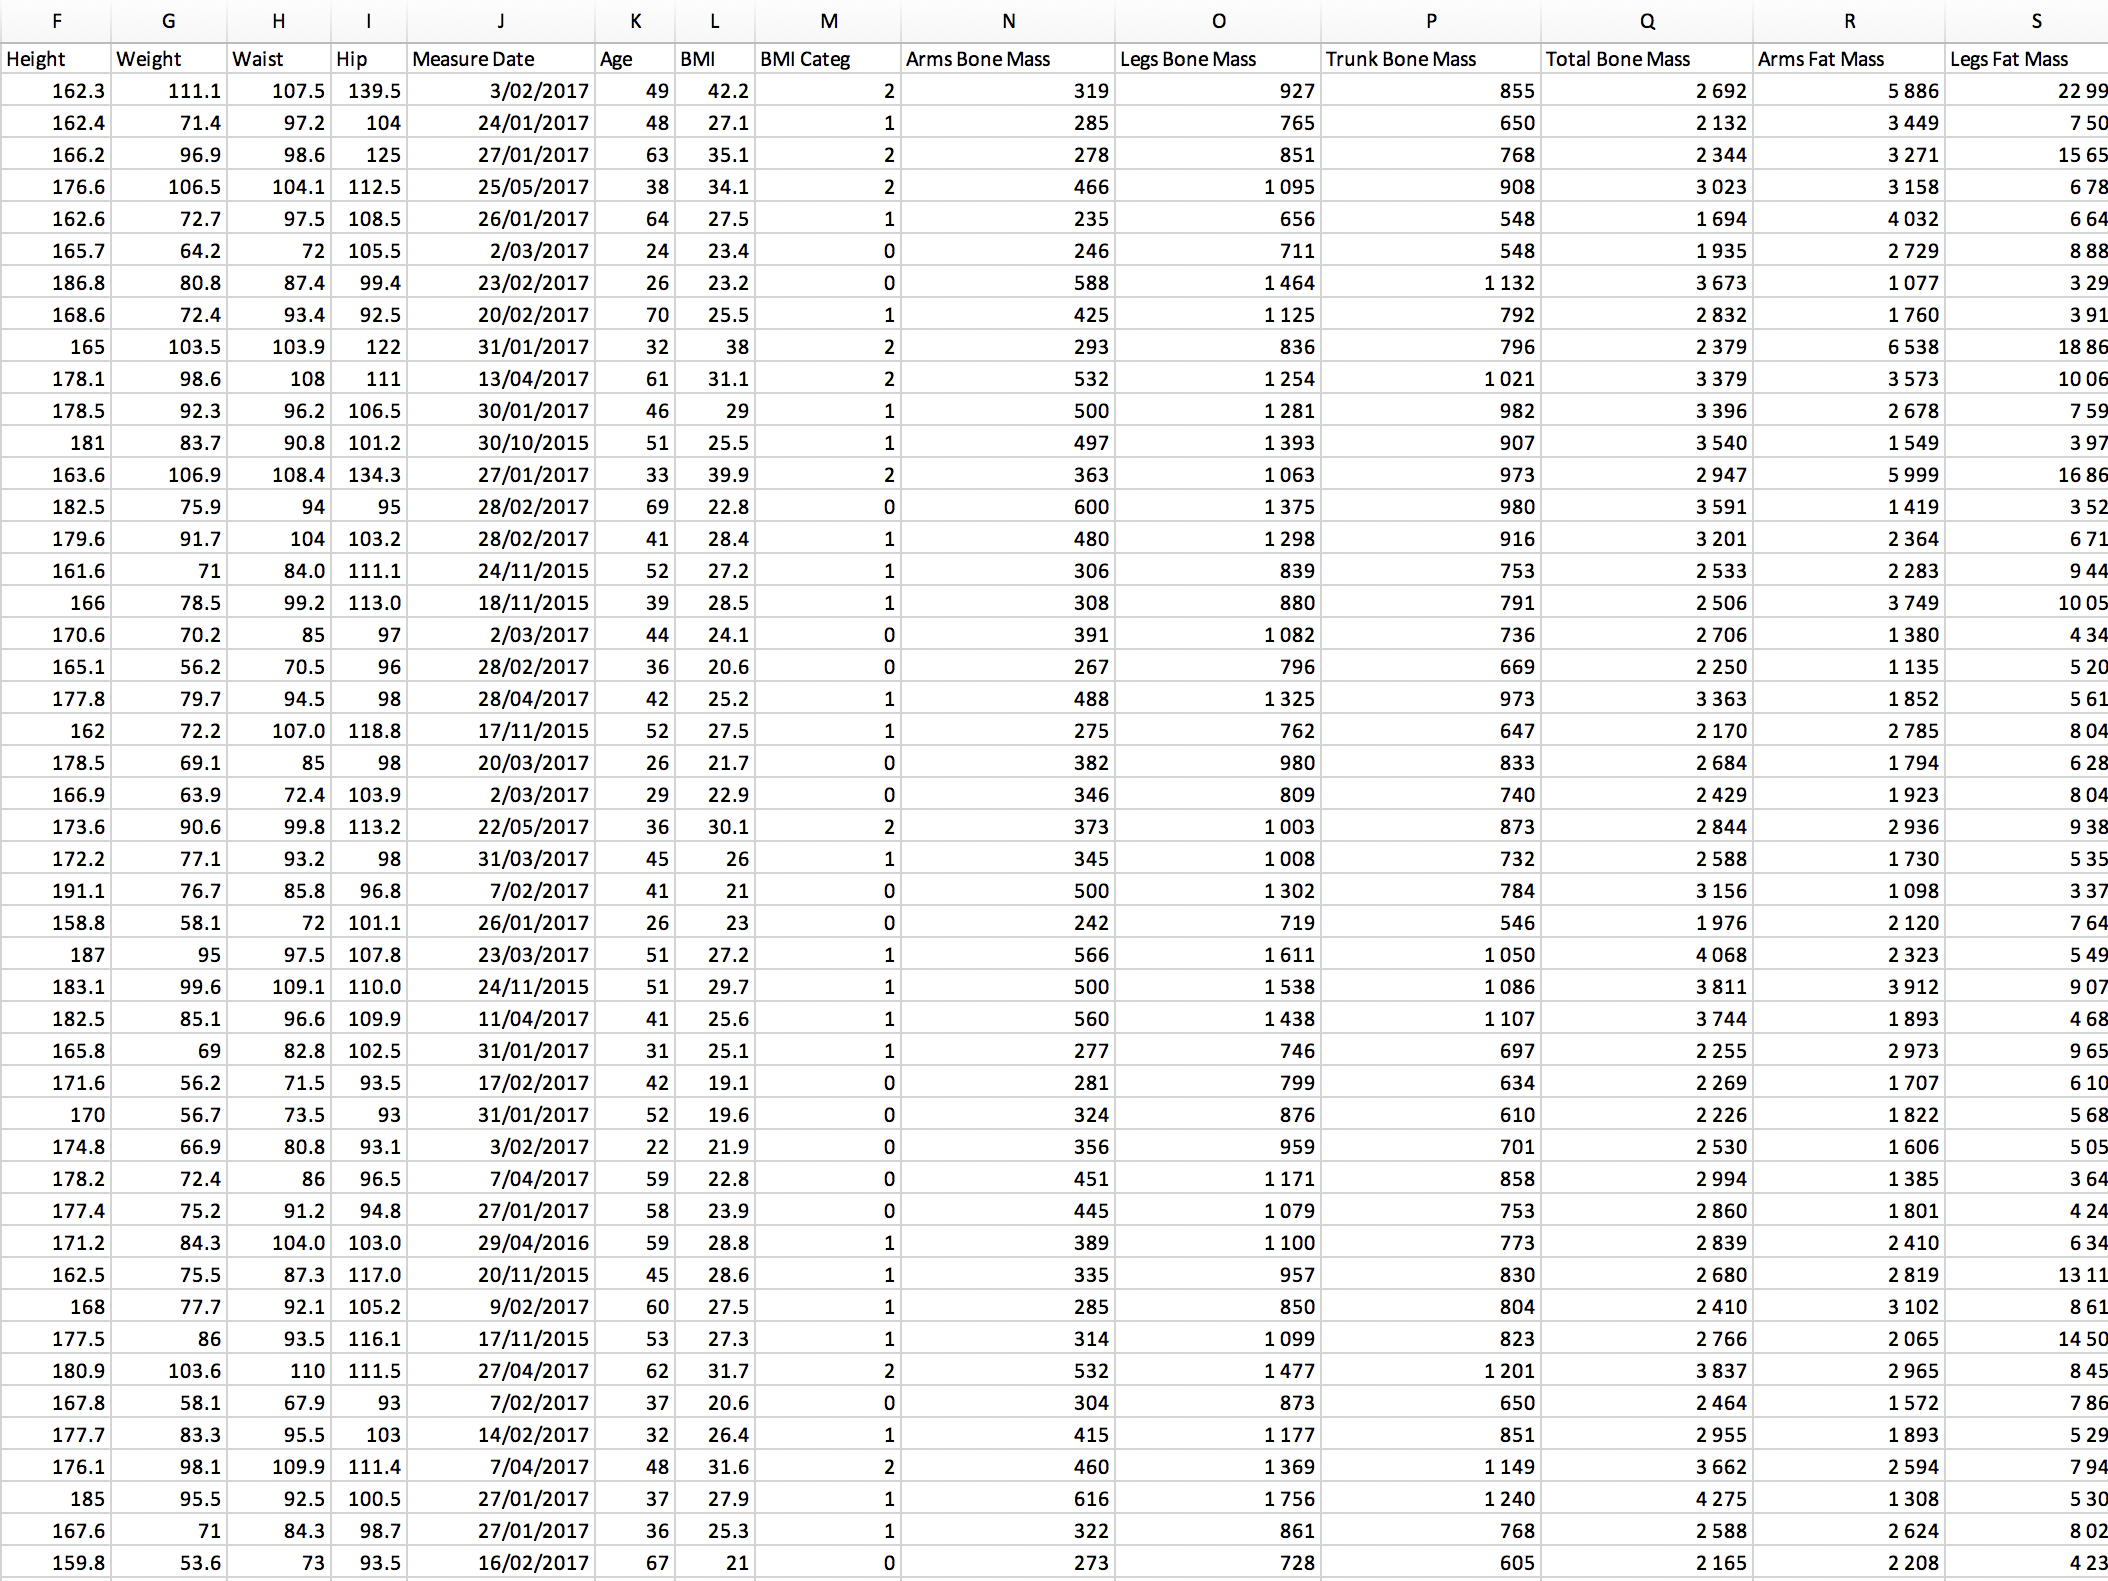
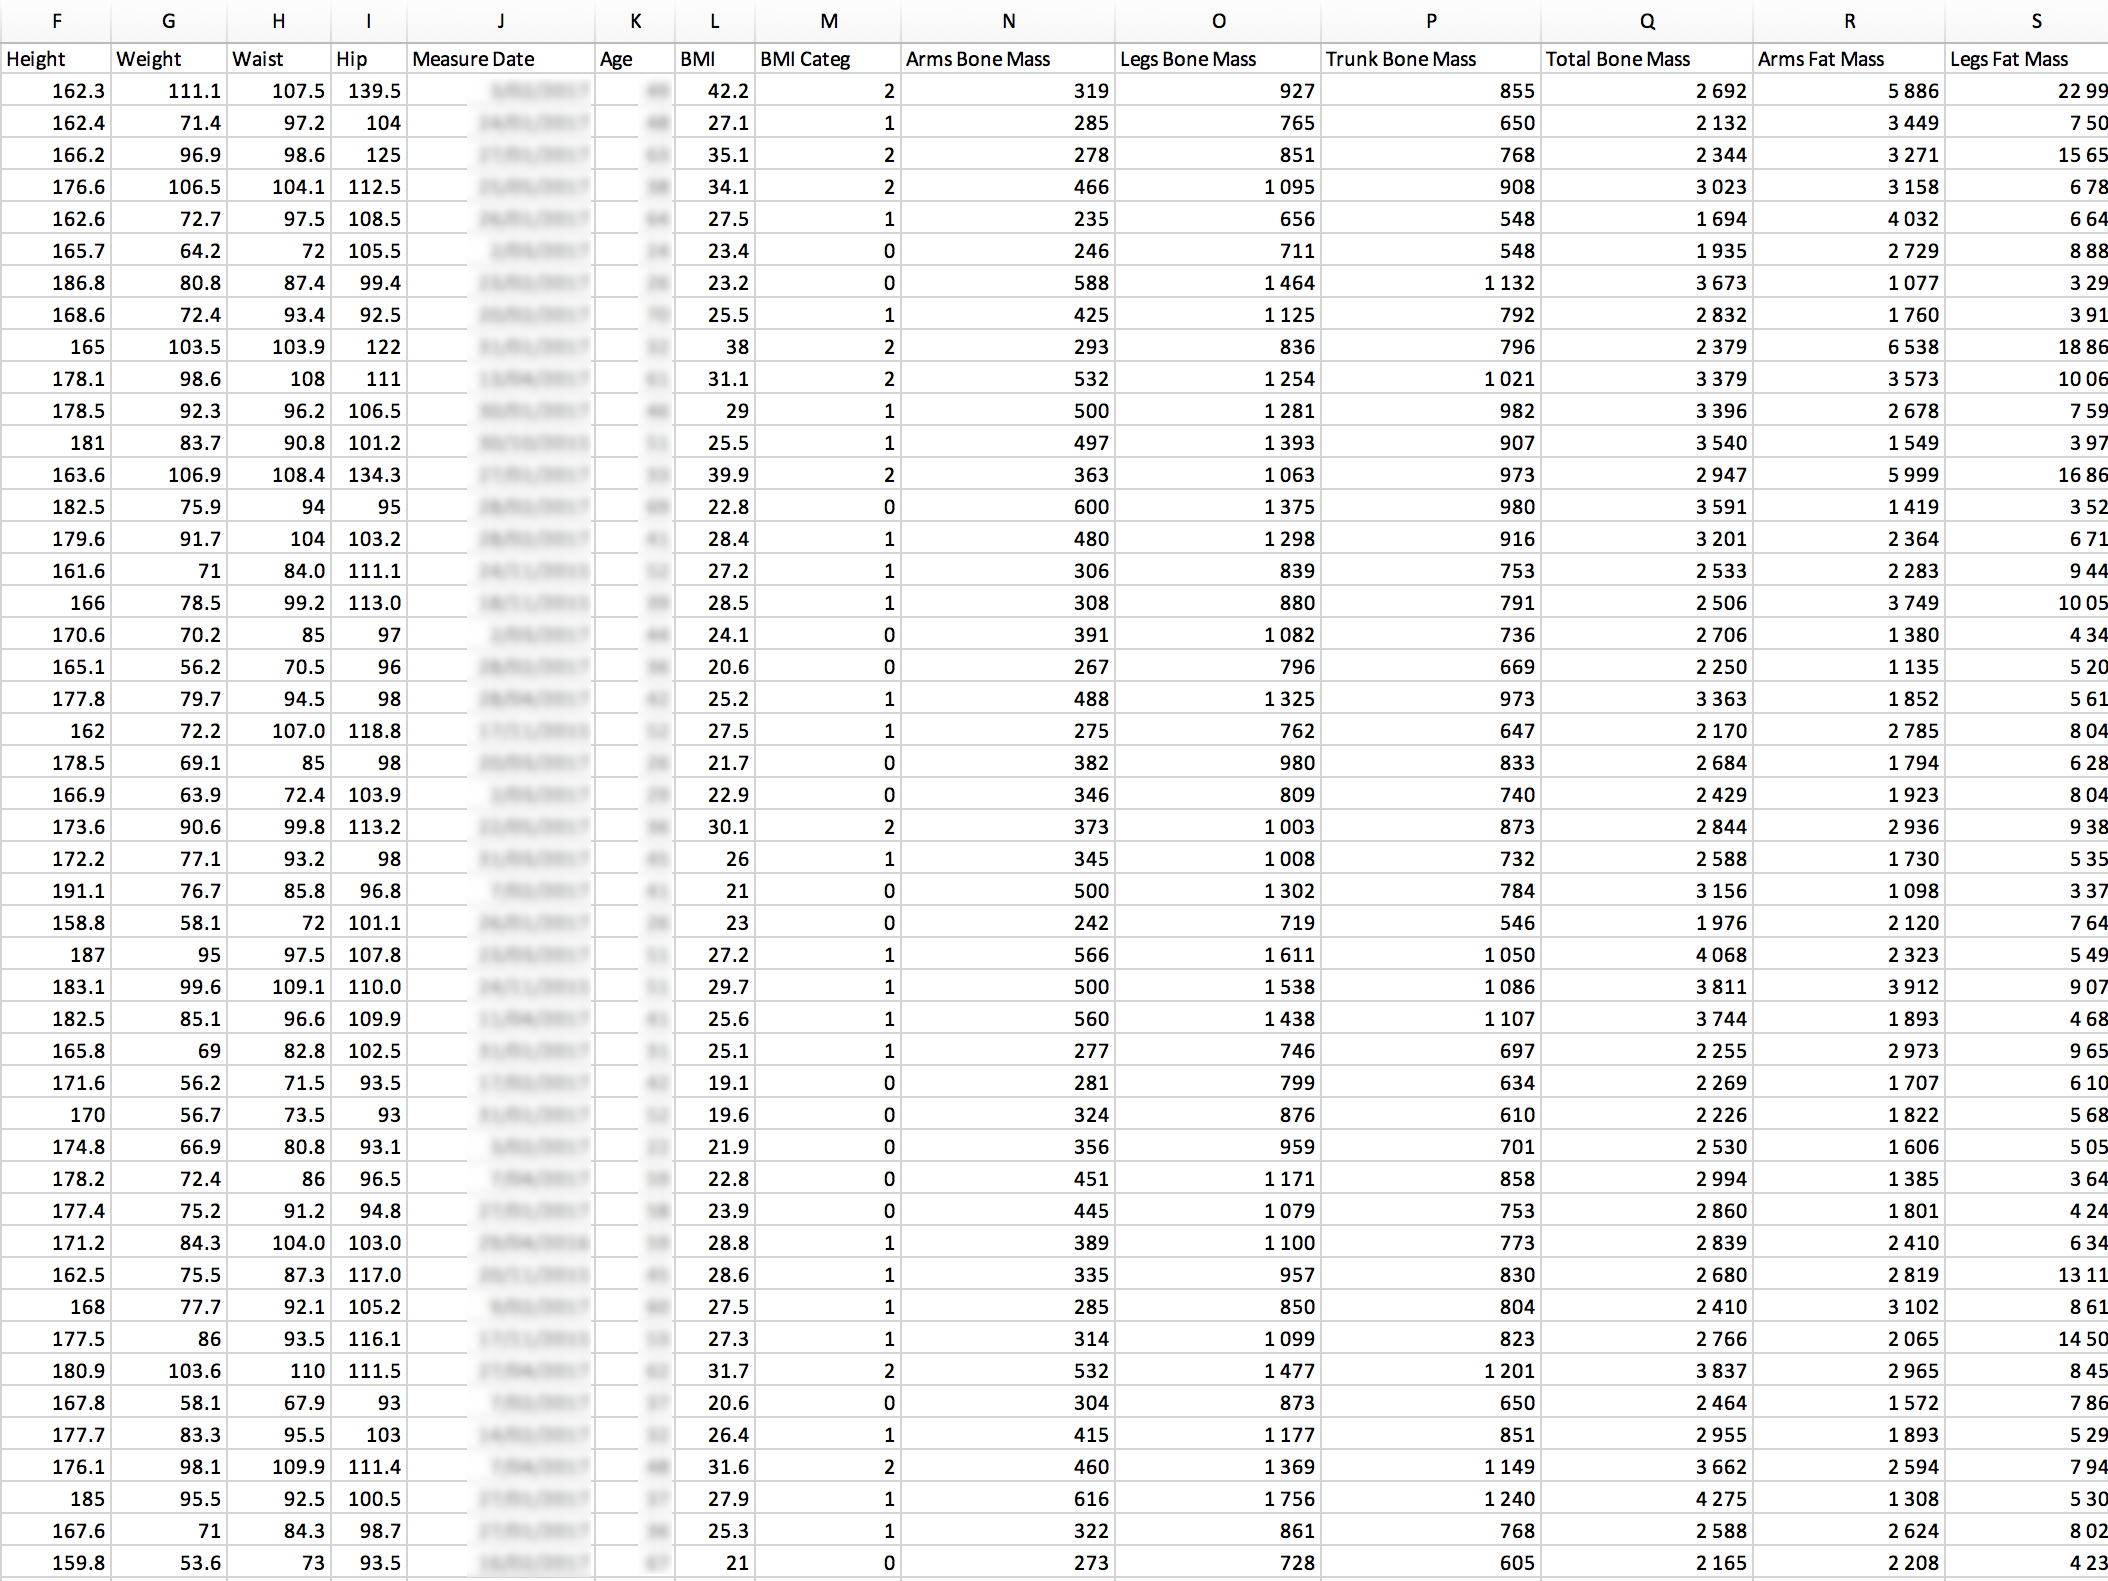
• Added notes to CoreScan slide. • Blurred scan date and age columns in data image.

Changed region(s): [[0.2158, 0.031, 0.2775, 1.0], [0.3083, 0.062, 0.3392, 0.9918]]

diff --git a/Adventures_in_Data_Wrangling/Data_Wrangling.tex b/Adventures_in_Data_Wrangling/Data_Wrangling.tex
@@ -217,7 +217,7 @@
     
     \bigskip
     \begin{itemize}
-        \item Statistical analysis of body composition data in R to check precision of GE’s new CoreScan algorithm.
+        \item Statistical analysis of body composition data in R to check precision of GE’s new CoreScan algorithm. {\tiny (densitometry)}
         
         \item Data exported directly from DXA body scanner. {\tiny (dual X-ray absorptiometry)}
         
